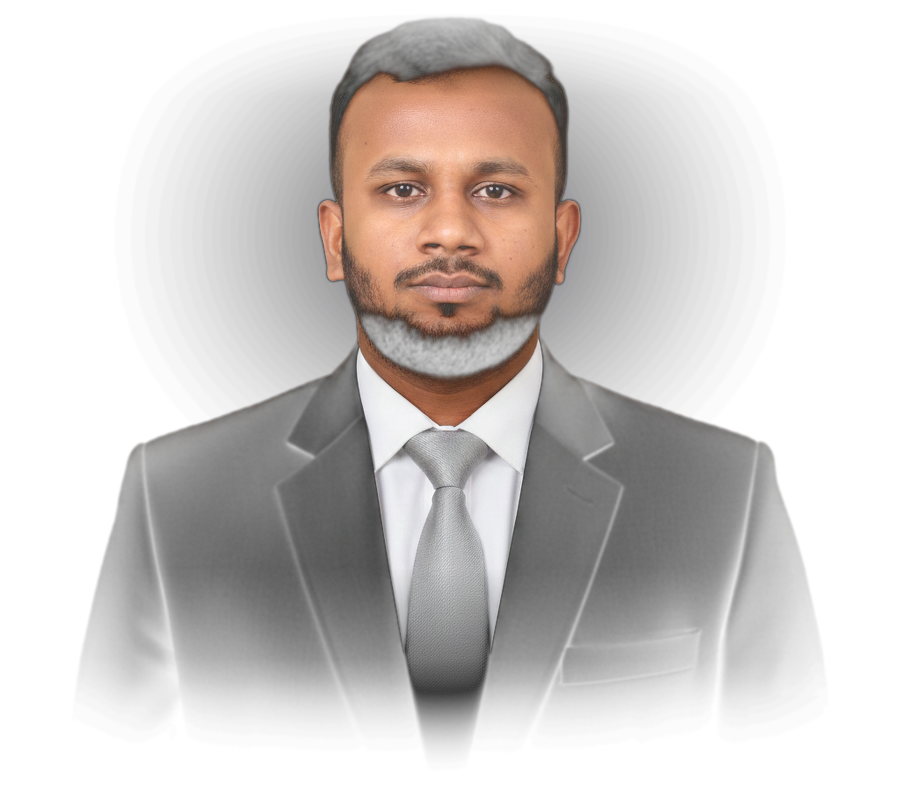
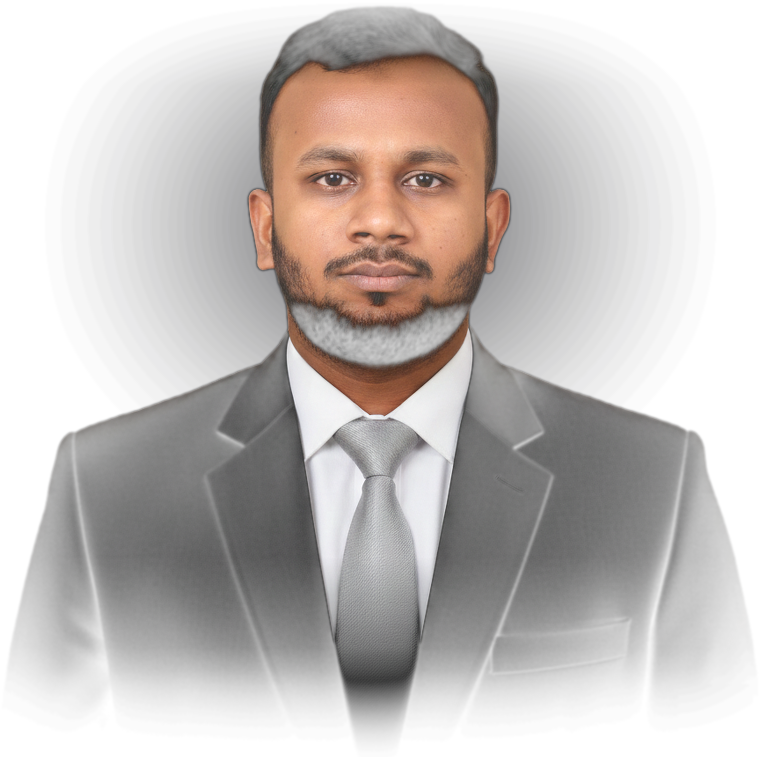
feat: eliminate left margin gap, align studio portrait to the left matching Matt Cannon template

Changed region(s): [[0.0, 0.0, 0.9961, 0.9723], [0.1811, 0.5165, 0.2415, 0.5469]]

diff --git a/frontend/src/components/Hero.jsx b/frontend/src/components/Hero.jsx
@@ -118,24 +118,24 @@ function Hero({ darkMode }) {
     return (
         <section
             id="home"
-            className="relative min-h-[92vh] lg:min-h-screen flex items-center pt-24 sm:pt-28 pb-12 sm:pb-20 px-4 sm:px-8 md:px-12 lg:px-16 overflow-hidden bg-[#000000]"
+            className="relative min-h-[92vh] lg:min-h-screen flex items-center pt-24 sm:pt-28 pb-12 sm:pb-20 px-4 sm:px-6 md:px-10 lg:px-12 overflow-hidden bg-[#000000]"
         >
             {/* ── Soft Ambient Backlight ── */}
-            <div className="absolute top-[20%] left-[8%] w-[480px] h-[480px] rounded-full bg-rose-500/[0.03] blur-[150px] pointer-events-none" />
+            <div className="absolute top-[20%] left-[5%] w-[480px] h-[480px] rounded-full bg-rose-500/[0.03] blur-[150px] pointer-events-none" />
 
-            {/* ── Main Container ── */}
-            <div className="container mx-auto max-w-7xl relative z-10">
-                <div className="grid grid-cols-1 lg:grid-cols-12 gap-8 lg:gap-12 items-center">
+            {/* ── Widescreen Balanced Layout (Eliminating Left Void Gap) ── */}
+            <div className="w-full max-w-[1400px] mx-auto relative z-10">
+                <div className="grid grid-cols-1 lg:grid-cols-12 gap-8 lg:gap-10 items-center">
 
                     {/* ════════════════════════════════════════════
-                        LEFT COLUMN: Clean Studio Portrait
-                        (Exact Artwork & Lighting Provided by User)
+                        LEFT COLUMN: Clean Left-Aligned Studio Portrait
+                        (Anchored properly to eliminate excess left gap)
                         ════════════════════════════════════════════ */}
                     <motion.div
                         variants={scaleIn}
                         initial="hidden"
                         animate="show"
-                        className="lg:col-span-6 flex justify-center lg:justify-start items-center relative"
+                        className="lg:col-span-6 xl:col-span-6 flex justify-center lg:justify-start items-center relative"
                     >
                         <motion.div
                             ref={containerRef}
@@ -146,13 +146,13 @@ function Hero({ darkMode }) {
                                 rotateY,
                                 transformStyle: 'preserve-3d',
                             }}
-                            className="relative w-full max-w-[500px] sm:max-w-[560px] lg:max-w-[620px] flex items-center justify-center cursor-pointer"
+                            className="relative w-full max-w-[480px] sm:max-w-[540px] lg:max-w-[620px] flex items-center justify-center lg:justify-start cursor-pointer"
                         >
-                            {/* The Exact Clean Studio Portrait */}
+                            {/* Studio Portrait with visible hair spotlight & seamless dark fade */}
                             <motion.img
                                 src={myImage}
                                 alt="MD Mahabubur Rahman"
-                                className="relative z-10 w-full h-auto object-contain object-center select-none drop-shadow-[0_20px_40px_rgba(0,0,0,0.95)]"
+                                className="relative z-10 w-full h-auto object-contain object-left select-none drop-shadow-[0_20px_40px_rgba(0,0,0,0.95)]"
                                 initial={{ opacity: 0, scale: 0.96 }}
                                 animate={{ opacity: 1, scale: 1 }}
                                 transition={{ duration: 0.8, ease: "easeOut" }}
@@ -167,7 +167,7 @@ function Hero({ darkMode }) {
                         variants={staggerContainer}
                         initial="hidden"
                         animate="show"
-                        className="lg:col-span-6 text-center lg:text-left space-y-6 lg:space-y-7"
+                        className="lg:col-span-6 xl:col-span-6 text-center lg:text-left space-y-6 lg:space-y-7 pl-0 lg:pl-4"
                     >
                         {/* Bismillah & Availability Badge */}
                         <motion.div variants={fadeUp} className="space-y-2">
@@ -184,7 +184,7 @@ function Hero({ darkMode }) {
                             </div>
                         </motion.div>
 
-                        {/* Main Editorial Headline */}
+                        {/* Main Editorial Headline — "I'm MD Mahabubur Rahman" */}
                         <motion.div variants={fadeUp} className="space-y-2">
                             <h1 className="text-4xl sm:text-5xl md:text-6xl lg:text-[4.2rem] font-bold tracking-tight text-white leading-[1.08]">
                                 I'm <span className="font-extrabold text-white">MD Mahabubur Rahman</span>
